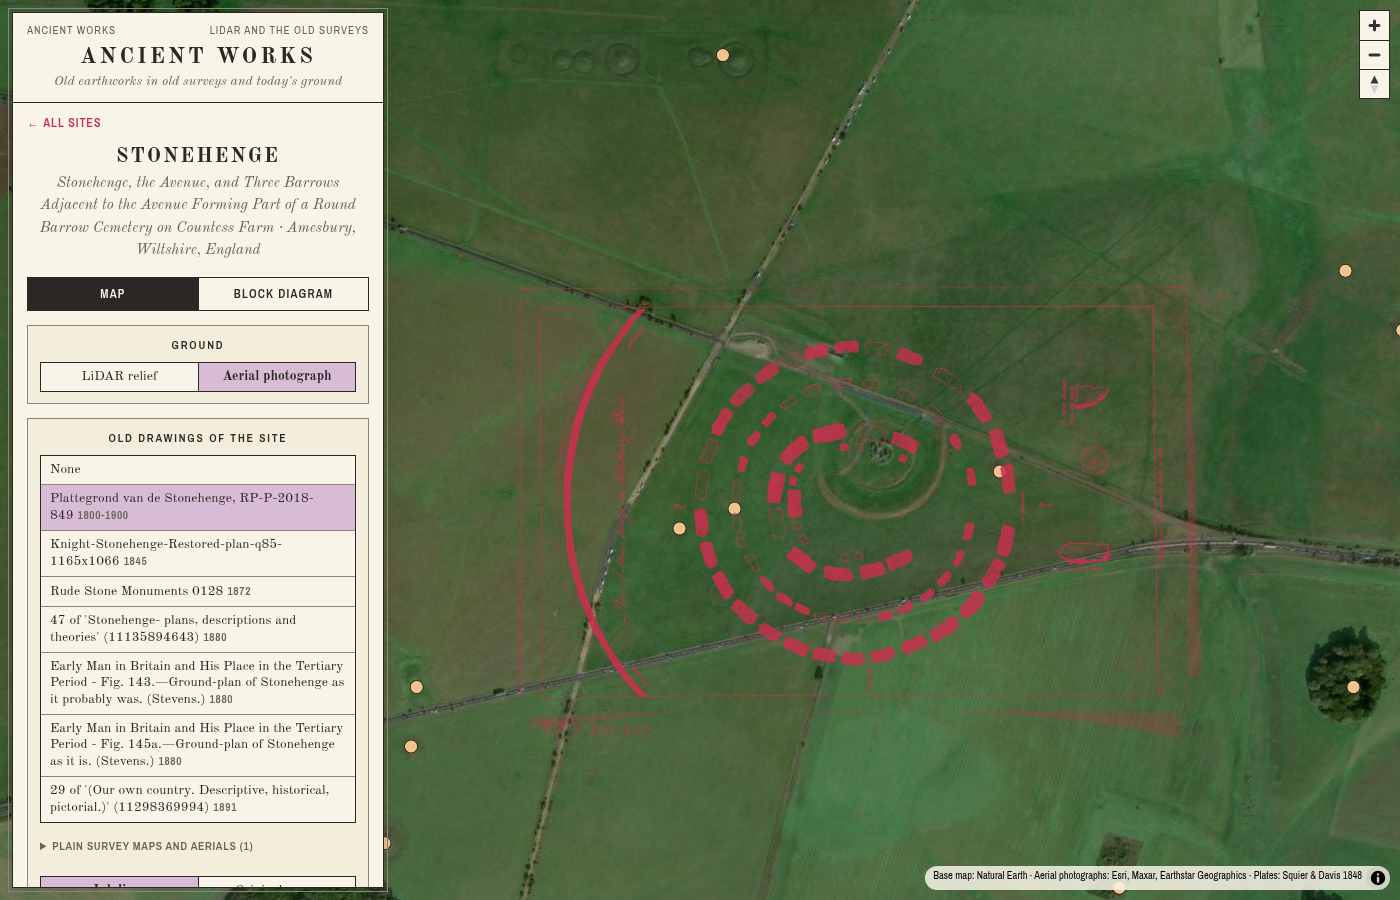
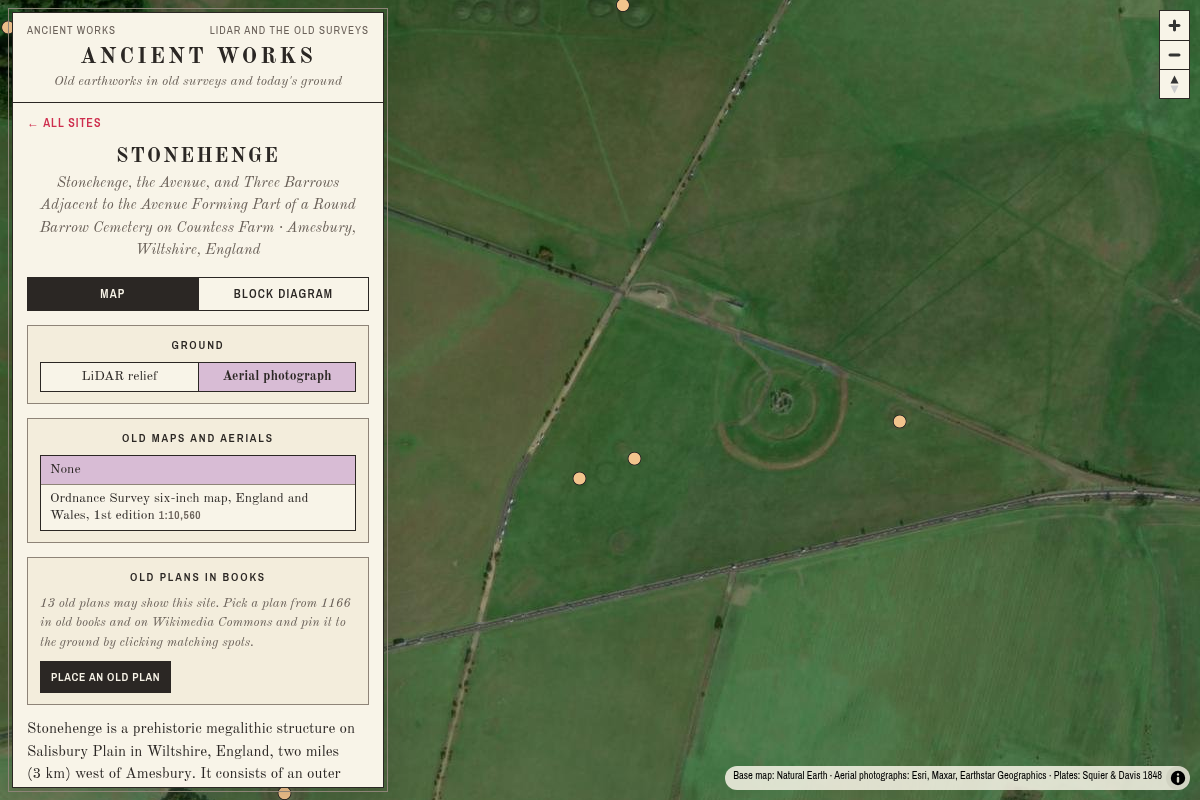
301: docs - correct the false Stonehenge record (the 7 fabricated fits were never synced: 0 drawings, 13 review candidates), replace stonehenge.png with the current visitor state, add the What-broke entry for the gate's blind spot, and fix the files-paragraph's byte-identical claim

diff --git a/tasks/301-site-argentoratum.md b/tasks/301-site-argentoratum.md
@@ -1,7 +1,6 @@
-Status: in-progress
 # 301: Argentoratum (Strasbourg), finished on the map - the second site through the line
 Depends on: 300
-Touches: web/data/sites.json, web/data/sites/argentoratum-q2361353/, web/data/sites/stonehenge-q39671/, web/data/review.json, data/review/, data/db/platefits/, docs/site_flow.md, docs/site_flow/, tools/site_done.py, pipeline/plan_fit.py, pipeline/build_site.py, tests/test_site_done.py
+Touches: web/data/sites.json, web/data/sites/argentoratum-q2361353/, web/data/sites/stonehenge-q39671/, web/data/review.json, data/review/, data/db/platefits/, docs/site_flow.md, docs/site_flow/, tools/site_done.py, pipeline/plan_fit.py, tests/test_site_done.py, tests/golden/
 
 ## Goal
 One site at a time, all the way to the map (owner, 2026-10-11). Stonehenge went through first and left the line
@@ -24,93 +23,91 @@ the result the way a visitor does before calling it done.
 - Do not start 207 or any other task: the lead gives the next site when this one is done.
 
 ## Hand-over
-(iteration 70, agent c - the line's fabrication check is WIRED and the line ran on Stonehenge;
-Stonehenge is now on the map as 0 drawings / 13 review candidates. Suite 60 green. The docs and
-test steps of the hand-over's order remain, then Argentoratum.)
+(iteration 71, agent c - Stonehenge's docs are TRUE again: site_flow.md corrected and stonehenge.png replaced
+with the current visitor state (0 drawings, uncoloured marker, 13 candidates in the review item). Suite 60
+green. Next: the golden-seeded rewrite of tests/test_site_done.py, then Argentoratum through the line.)
 
-**What was done and committed (iteration 70):**
-- tools/site_done.py: `_sync` runs `plan_fit.fabrication_pattern(doc["pairs"])` on every doc
-  BEFORE the is_done/build branch. On a hit: `_pattern_entry` upserts the candidate into the
-  site's item (plan/title/url/pairs/evidence/gate_score; why = "line check: <reason>; the gate's
-  X m measures internal consistency of the anchors, not their truth"), the doc file is deleted,
-  the line prints "sent to the review queue (line check: ...)" and never counts it synced; after
-  the loop `plan_fit.prune(root, sid)` drops any existing overlay. `_sync` returns (failed, sent).
-  `main` re-reads the item after the sync (upserts during sync are invisible to `_fit`'s snapshot)
-  so `_review`/`_summary`/`resolved` see the new candidates. Module docstring documents the check.
-- pipeline/plan_fit.py: `prune(root=None, site=None)` - the `site` param restricts the sweep to
-  one site's dep file (the CLI keeps the global sweep via site=None). Added because the line's
-  first run used the global prune and it dropped a stale orphan dep entry of alligator-effigy-mound
-  (see DECISIONS) - the line must not write other sites' files.
-- The line was run on the real checkout: `.venv/bin/python tools/site_done.py stonehenge-q39671`
-  (twice; second run idempotent). All 7 stonehenge auto docs hit the check and were deleted;
-  their 14 plan webps + dep entries pruned; drawings 7 -> 0; item 6 -> 13 candidates; review.json
-  republished (339 open of 340). The 6 original item candidates are byte-identical; the 7 new ones
-  are appended after them (lead unchanged, item file name unchanged).
+**What was done and committed (iteration 71):**
+- docs/site_flow/stonehenge.png replaced: served the LIVE checkout (server/serve.py --port 0, ephemeral
+  port) and shot with `NODE_PATH=/home/agent/tools/shot/node_modules node tools/shot.mjs <url> <out>
+  1000 1200 800 "<probe>"`, POSTWAIT=8000 (the probe awaits loadDeps, then the 4.5 s map flyTo must
+  finish). Probe: poll until S.ready && S.sites.length, then select('stonehenge-q39671'),
+  await loadDeps(S.byId[...]). Its [eval] reported drawings: 0, depFiles: ["map:six-inch-1st.webp"],
+  ground: "imagery", RV loaded with 339 open items. The photo shows exactly that: aerial ground,
+  panel group "Old maps and aerials" with only the 1842 six-inch OS map (the 1900 one-inch is hidden
+  by the 150-year rule), no drawings group, uncoloured map markers. ArcGIS World_Imagery
+  ERR_ABORTED lines during the flyTo are normal in-flight aborts; the photograph loads anyway.
+- docs/site_flow.md: (1) the Stonehenge paragraph rewritten - no batch run (13/13 covered), the line's
+  pre-sync check found all 7 docs to be the fabrication class, all 7 upserted to the item with the
+  reason and deleted, site ends 0 drawings, entry stays 0, item 6 -> 13 candidates, 339 open of 340,
+  a human's saved fit puts the first drawing on; (2) the png caption bullet is now true; (3) new
+  "What broke" entry: the gate passed the 7 fabricated fits by construction (gate.md s.7's registered
+  limit; residuals 0-44 m; one fit 2-3x too large and ~70 m off-centre) and the line's
+  plan_fit.fabrication_pattern (grid roundness + 2D lattice + 1D ladder on stored page-px pairs, pure)
+  now catches the class before sync - fires on all 110 batch docs (at calibration), none of the 20
+  hand docs; (4) "Files the line touches" no longer claims data/db/platefits is byte-identical (the
+  line deletes pattern docs after upserting the candidate); (5) step 2 (sync) describes the pre-sync
+  check before the build.
+- Suite: 60 passed, unchanged.
 
-**Verified state on disk (this commit):**
-- stonehenge-q39671: 0 docs in data/db/platefits (the 7 deleted docs survive in git history -
-  `git show <parent of this commit>:data/db/platefits/stonehenge-q39671.<plan>.json`, plans
-  c_022604d2be0becdc c_098c4cb138676939 c_20f9f11153a0b7f0 c_6933e3a931a0240a c_83b4d6df7a6d2383
-  c_897a5c1632e2fdd6 c_f8386b6404e4ee63); dep = 2 maps (six-inch-1st, os1inch); drawings 0;
-  item data/review/stonehenge-q39671.earthworkenglan01allcgoog_n0582_1.json = 13 candidates
-  (6 originals + 7 with "line check:" whys), resolved None; review.json stonehenge entry = 13.
-- alligator-effigy-mound-q4732645: its dep file (gitignored, local) lost one stale orphan entry
-  during the FIRST run's global prune (a plan overlay referencing a doc that no longer exists in
-  the store - pre-existing before this task; the only alligator doc is the batch's c_618a, which
-  prune kept). Left as-is: it was dead weight, the file is local and pipeline-rebuilt, and the
-  module's own next global prune (any page save/delete) would have dropped it anyway. Do not try
-  to restore it or file a task for it.
-- argentoratum-q2361353: untouched so far - 8 auto docs, item with 34 candidates, drawings 0,
-  dep = 2 maps + 1 aerial. All 8 docs hit the pattern check (verified this session).
+**State on disk (unchanged since the previous commit, re-verified):**
+- stonehenge-q39671: 0 docs in data/db/platefits (the 7 deleted ones live in git: git show
+  b84d147^:data/db/platefits/stonehenge-q39671.<plan>.json, plans c_022604d2be0becdc
+  c_098c4cb138676939 c_20f9f11153a0b7f0 c_6933e3a931a0240a c_83b4d6df7a6d2383
+  c_897a5c1632e2fdd6 c_f8386b6404e4ee63); dep = six-inch-1st.webp + os1inch.webp; drawings 0; item
+  data/review/stonehenge-q39671.earthworkenglan01allcgoog_n0582_1.json = 13 candidates (6 originals
+  byte-identical + 7 with whys starting "line check:"), resolved None; review.json stonehenge =
+  13, 339 open of 340.
+- argentoratum-q2361353: 8 auto docs (all 8 hit fabrication_pattern - verified in the calibration
+  session), item with 34 candidates, drawings 0, dep = 2 maps + 1 aerial.
 
-**Next step (ONE step, then commit): DOCS.** docs/site_flow.md: correct the now-false Stonehenge
-paragraph (it says the line "synced the 7 documents, took the entry from 0 to 7 drawings" and the
-png caption says "its circles and stones sit on the real sarsens" - both false: all 7 were the
-batch's fabricated pattern class; the site shows 0 drawings and all 13 candidates sit in its review
-item until a human fits at least one). Replace docs/site_flow/stonehenge.png (server/serve.py
-`--port 0` + tools/shot.mjs, probe `select('stonehenge-q39671')`): the state a visitor sees now -
-0 drawings, marker uncoloured, the review item reachable from the page - with the true one-line
-caption. Add the entry under "What broke on Stonehenge": the gate passed 7 fabricated pattern
-fits by construction (docs/gate.md s.7 blind spot); the line's fabrication check (plan_fit.
-fabrication_pattern, wired into tools/site_done.py:_sync) now catches this class before it reaches
-the map - pattern docs go to the review item with the reason and are deleted, never synced.
-Also update the "Files the line touches" paragraph if it claims platefits is byte-identical (the
-line now deletes pattern docs).
+**Next step (ONE step, then commit): TESTS - rewrite tests/test_site_done.py** (it currently passes
+vacuously: 0 docs in the repo -> nothing to check). Make it coverage of the check by seeding the
+pre-run state:
+1. New goldens (add `tests/golden/` to the Touches line first): (a) the 7 deleted stonehenge docs -
+   recover verbatim from git history (`git show b84d147^:data/db/platefits/stonehenge-q39671.<plan>.json`
+   for the 7 plans above) into tests/golden/ (e.g. stonehenge_linecheck_docs/, one file per doc,
+   keeping the original file names); (b) the PRE-run item = the current 13-candidate item minus its
+   7 candidates whose why starts with "line check:" (deterministic: the upsert only appended) -
+   derive it in the test (or commit it as a golden too); (c) the EXPECTED post-run item = the repo's
+   current 13-candidate item itself (the assertion target).
+2. Test body (keep the existing socket-dead GUARD harness and temp-tree copy): seed the 7 docs into
+   the tree's data/db/platefits and the pre-run item into the tree's data/review; the site dir and
+   sites.json stay as in the repo (2 maps, 0 drawings); run the copied line
+   (`site_done.py --root <tree>`); assert: exit 0; the fit line "13 candidate picture(s): 7 fitted
+   (doc), 6 in the review item -> no batch run needed"; 7 "sent to the review queue (line check:
+   ...)" lines; NO plan webps created in the site dir; the site's depictions.json byte-identical to
+   the repo's; sites.json byte-identical (drawings 0); the upserted item file byte-identical to the
+   repo's current 13-candidate item; the 7 seeded docs GONE from the tree's platefits; review.json's
+   items identical to the repo's; no other site's file touched anywhere in the tree (this pins the
+   scoped-prune fix); second run idempotent (0 docs -> no batch run; 13 summary lines; only
+   review.json's "at" changes). Keep the existing loud-fail precondition style if the repo drifts
+   (e.g. a doc reappears, the item candidate count changes).
 
 **Then (order):**
-1. TESTS - rewrite tests/test_site_done.py for the new state: it must SEED the 7 pattern docs
-   from a new golden (recover them from git history, e.g. tests/golden/ - add the golden path to
-   the task's Touches when you create it) plus the PRE-run item (derive it by dropping the 7
-   "line check:" candidates from the current 13-candidate item - deterministic, since the upsert
-   only appended) plus the pre-sync site dir (2 maps, drawings 0), run the copied line (the
-   socket-dead GUARD harness stays), and assert: exit 0; fit line "13 candidate picture(s): 7
-   fitted (doc), 6 in the review item -> no batch run needed"; 7 "sync ... sent to the review
-   queue (line check: ...)" lines; NO plan webps; dep byte-identical to the repo's (2 maps);
-   sites.json byte-identical (drawings 0); the upserted item byte-identical to the repo's 13-
-   candidate item; the 7 golden docs GONE from the tree's platefits; review.json items == repo's;
-   no other site's file touched (this is what pins the scoped-prune fix); second run idempotent
-   (0 docs -> no batch run; 13 summary lines; only review.json's "at" changes). Keep the existing
-   precondition style (fail loudly if the repo drifts). The old test currently passes vacuously
-   (0 docs in the repo) - that is not coverage; the rewrite makes it coverage again.
-2. ARGENTORATUM - `.venv/bin/python tools/site_done.py argentoratum-q2361353`: all 8 auto docs
-   hit the check -> upserted to the item (34 -> 42 candidates, resolved stays None, originals
-   untouched), 0 docs left, 0 drawings (0 -> 0), exit 0; the "browser-check each synced drawing"
-   box is satisfied vacuously (0 synced) - document that. Screenshot the site page to
-   docs/site_flow/argentoratum.png (visitor's state: 0 drawings, item in the review queue) with a
-   one-line caption (box 2). Tick the boxes as they are verified.
+1. ARGENTORATUM: `.venv/bin/python tools/site_done.py argentoratum-q2361353` (live checkout): expect
+   all 8 auto docs to hit the check -> upserted into the item (34 -> 42 candidates, resolved stays
+   None, the 34 originals byte-identical and in order), 0 docs left, drawings 0 -> 0, exit 0. The
+   "browser-check each synced drawing" part of box 2 is satisfied vacuously (0 drawings synced) -
+   document that when ticking. Screenshot the site page (same shot recipe as stonehenge, probe
+   select('argentoratum-q2361353')) to docs/site_flow/argentoratum.png with a one-line caption on
+   what it shows (box 2).
+2. Tick the boxes only as they are verified; box 3's "one line under What broke" is already written
+   (the fabrication-check entry) - if nothing else breaks on Argentoratum, box 3 rests on the test
+   step + the full suite.
 
-**Re-read:**
+**Re-read (carried over, still fresh-eyes due):**
 - Re-read: tools/site_done.py:_fit - on a re-run after a pattern doc was deleted, the picture is
   covered via item_cands (not docs), so no batch run re-fits it with a model (verified on the
   second stonehenge run: "0 fitted (doc), 13 in the review item").
 - Re-read: fit/review.py:upsert_item - merges by plan; a same-plan candidate is REPLACED whole, so
-  a later re-upsert (e.g. a batch run that re-fits the picture and the model now answers badly or
-  well) overwrites the "line check:" entry - intended: the newest word wins until a human saves.
+  a later re-upsert (e.g. a batch run that re-fits the picture) overwrites the "line check:" entry -
+  intended: the newest word wins until a human saves.
 
-**Environment:** .venv/bin/python for anything importing pipeline/ or fit/ (numpy/PIL; the driver's
-2026-10-10 venv note is stale, the venv builds). No fixed network ports in tests; nothing writes
-outside project + temp dir. Do not run git merge/rebase/reset/stash/branch switches. Agent a works
-on 206 in its own checkout (its 206 files: fit/src_mackenzie.py etc. - not yours); 207/207a/b/c
-wait on the human. Do not start other tasks; the lead gives the next site when this one is done.
-
-
+**Environment:** .venv/bin/python for anything importing pipeline/ or fit/ (the venv builds fine;
+the driver's 2026-10-10 note is stale). Screenshot recipe: server/serve.py --port 0 (ephemeral, no
+fixed ports) + node tools/shot.mjs with NODE_PATH=/home/agent/tools/shot/node_modules and
+POSTWAIT>=8000 (map flyTo is 4.5 s). Nothing writes outside project + temp dir. Do not run git
+merge/rebase/reset/stash/branch switches. Agent a works on 206 in its own checkout (its files:
+fit/src_mackenzie.py etc. - not yours). Do not start other tasks; the lead gives the next site when
+this one is done.

diff --git a/docs/site_flow.md b/docs/site_flow.md
@@ -23,7 +23,12 @@ Exit codes: 2 = the site is not built, 1 = a document failed to sync, 0 = done.
    A brand-new site needs a model here: `--working` (the local vision model on the AI box) or
    `--model-json` (recorded answers, a dry run); with neither, unfitted pictures land in the
    review item as "no model answer".
-2. **sync** — `pipeline/plan_fit.py build` for every one of the site's fit documents: the big
+2. **sync** — before any of them, the line's fabrication check: `plan_fit.fabrication_pattern`
+   on every document's stored page-px pairs (the batch's gate passes the model's pattern class
+   by construction — see What broke on Stonehenge). A document that hits is never synced: its
+   candidate is upserted into the site's review item with the reason, the document is deleted
+   (a later batch run re-fits the picture from scratch), and the line prints where it went. Then
+   `pipeline/plan_fit.py build` for every remaining document: the big
    picture (a Commons file is downloaded once and cached in `data/raw/commons/big/`, paced like
    `pipeline/commons.py`), the similarity or homography fit, `plan_<id>.webp` + `plan_<id>_ink.webp`
    in `web/data/sites/<site>/`, and the entry in its `depictions.json` (kind "plan"/"view",
@@ -40,13 +45,20 @@ The output names every picture of the site and where it ended up: *synced to the
 *sent to the review queue (why)*, or *skipped: overlay already current*.
 
 Stonehenge (the first site through the line, 2026-10-11): all 13 candidates were already covered
-by the batch (7 automatic documents, 6 in one review item), so the line synced the 7 documents,
-took the entry from 0 to 7 drawings, and published the item (the page then has 339 open of
-340 items). What the page shows:
+by the batch (7 automatic documents, 6 in one review item), so no batch run was needed — but the
+line re-checked all 7 documents before syncing and found every one of them to be the model's
+documented fabrication class (the batch's gate passed that class by construction, see below), so
+not one was synced: the line sent all 7 into the site's review item with the reason and deleted
+the documents. The site ends with 0 drawings, its entry stays at 0, and its one review item grew
+from 6 to 13 candidates (the page then has 339 open of 340 items). A human's saved fit is what
+puts the first drawing on this site. What the page shows now:
 
-- `docs/site_flow/stonehenge.png` — the site open on the aerial photograph with the 1800
-  Rijksmuseum plan in red ink over the ground (its circles and stones sit on the real sarsens),
-  the site panel listing all 7 drawings, and its map square coloured (7 drawings).
+- `docs/site_flow/stonehenge.png` — Stonehenge open on the aerial photograph with no drawing on
+  it at all: the panel's group is "Old maps and aerials" and offers only the 1842 six-inch OS
+  survey (the 1900 one-inch map is hidden by the 150-year rule), the map's marker is uncoloured,
+  and all 13 of the site's candidate pictures wait in its review item (one of the 339 open).
+  The old 7 drawings that the first run put here are the fabricated pattern fits described
+  below; they sit in the review item until a human places a real one.
 
 ## What broke on Stonehenge, and the fix (so the next site does not meet it again)
 
@@ -70,12 +82,29 @@ took the entry from 0 to 7 drawings, and published the item (the page then has 3
   (only plans/drawings and 150+ year-old surveys show). Stonehenge's 1900 OS map therefore never
   appears; its 1842 six-inch map does. A site with only recent maps will look aerial-only in the
   panel even though the files are built.
+- **The gate passed 7 fabricated fits by construction.** Every one of Stonehenge's automatic
+  documents was the model's documented fabrication class (the `batch_us.llm_model` docstring:
+  "internally perfect regular patterns"): a regular ladder of round page-px coordinates mapped
+  to a regular ladder of ground points, implied scale = the site box's width over the page's
+  pixels. The batch never asks the model for a placement — it solves the similarity from the
+  model's own pairs and the gate scores that solution against the same points — so the
+  residuals (0–44 m) and all three pre-gate counterchecks passed by construction: gate.md
+  section 7's registered limit verbatim ("a consistent global error passes"). None of the 7
+  sat on the real sarsens (one was 2–3× too large and ~70 m off-centre). The line is the last
+  gate before the map, so it catches the class itself: `plan_fit.fabrication_pattern` (grid
+  roundness, a 2D lattice clause, a 1D ladder clause — on the document's stored page-px
+  pairs, pure, no download) runs on every document in `tools/site_done.py` before any sync; a
+  hit goes to the site's review item with the reason and its document is deleted, never to the
+  map. Verified to fire on every batch document in the repo (110 of 110 at calibration, before
+  the line deleted its 7) and on none of the 20 hand-fit documents.
 
 ## Files the line touches (one site only)
 
 `web/data/sites/<site>/**` (the overlays, `depictions.json`), the site's entry in
 `web/data/sites.json`, `web/data/review.json` (always the whole queue), the site's own item in
-`data/review/` (only to record a resolution), new big-picture caches in
-`data/raw/commons/big/`. It never rewrites a fit document (`data/db/platefits/` is byte-
-identical across runs), never another site's files, and never the 20 hand-fit documents
+`data/review/` (a resolution, or a fabrication-pattern candidate before its document is
+deleted), new big-picture caches in `data/raw/commons/big/`. It never rewrites a fit document —
+it only deletes a document whose page-px pairs match the fabrication pattern (the candidate
+goes to the review item first), so the rest of `data/db/platefits/` is byte-identical across
+runs — never another site's files, and never the 20 hand-fit documents
 (`tests/golden/hand_fit_docs.sha256` stays green).

diff --git a/DECISIONS.md b/DECISIONS.md
@@ -69,3 +69,7 @@ Suite: 60 passed after the change (the function is unused until the next step wi
 ## 2026-10-11 301 DECISION: the fabrication check is wired into the line (tools/site_done.py:_sync, run BEFORE any build/download); the line took Stonehenge to the map as 0 drawings / 13 review candidates; two line defects found and fixed in the line (scoped prune, stale item re-read)
 Where: tools/site_done.py, pipeline/plan_fit.py (prune), data/db/platefits/stonehenge-q39671.* (7 deleted), data/review/stonehenge-*, web/data/{sites.json,review.json}
 Rationale: _sync runs plan_fit.fabrication_pattern(doc pairs) on every doc before the is_done/build branch; on a hit it (1) upserts the candidate into the site's item via a new _pattern_entry (plan/title/url/pairs/evidence/gate_score, why = "line check: <reason>; the gate's X m measures internal consistency of the anchors, not their truth"), (2) deletes the doc file (a later batch run re-fits the picture; plan_fit.prune keeps no overlay of it), (3) prints "sent to the review queue (line check: ...)" and never counts it synced; after the loop the line calls plan_fit.prune(root, sid). _sync now returns (failed, sent), and main re-reads the item AFTER the sync (the upsert is invisible to _fit's snapshot) so _review/_summary/resolved all see the new candidates. The real run (no model, no network): 13 rows all covered -> no batch run; all 7 stonehenge docs hit the check; the 7 already-built plan webps + dep entries pruned; drawings 7 -> 0; item 6 -> 13 (the 6 originals byte-identical, order kept, lead unchanged); review.json republished (339 open of 340); second run idempotent (only review.json's "at" changes). Two defects the run exposed, both fixed in the line per the task's "fix in the line" box: (1) prune was a GLOBAL sweep and dropped a stale orphan dep entry of alligator-effigy-mound (a plan overlay referencing a doc that no longer exists in the store - pre-existing since before this task; the dep dir is gitignored/local, the images pipeline-rebuild, and the module's own next global prune would have dropped it anyway) - so plan_fit.prune gained a `site` parameter (site=None keeps the CLI's global sweep) and the line prunes only its own site; (2) _review printed the stale pre-sync item (6 candidates instead of 13) because it used _fit's snapshot - main re-reads after the sync. Suite 60 passed after all of it (hand-fit golden green). test_site_done.py now runs VACUOUSLY against the new repo state (0 docs) - the golden-seeded rewrite that makes it re-verify the check is the next step, after the docs step. The 7 deleted docs live on in git history (this commit's parent): git show <parent>:data/db/platefits/stonehenge-q39671.<plan>.json.
+
+## 2026-10-11 301 DECISION: Stonehenge's record corrected - docs/site_flow.md no longer claims the 7 fabricated fits were synced, and docs/site_flow/stonehenge.png is the CURRENT visitor state (0 drawings, uncoloured marker, 13 candidates in the review item)
+Where: docs/site_flow.md, docs/site_flow/stonehenge.png
+Rationale: the old paragraph said the line "synced the 7 documents, took the entry from 0 to 7 drawings" and the old png's caption claimed the 1800 Rijksmuseum plan "sits on the real sarsens" - both false since the iteration-70 line run (all 7 were the model's fabricated pattern class; the site is 0 drawings with 13 open candidates). New png: the LIVE checkout served with server/serve.py --port 0 (ephemeral port), shot with tools/shot.mjs (NODE_PATH=/home/agent/tools/shot/node_modules; probe polls S.ready && S.sites.length, select('stonehenge-q39671'), awaits loadDeps; POSTWAIT=8000 so the 4.5 s flyTo settles). Its [eval] confirmed drawings: 0, depFiles: ["map:six-inch-1st.webp"] (the 1900 one-inch map is hidden by the 150-year rule), RV loaded with 339 open items; the frame shows the aerial ground, the panel's "Old maps and aerials" group, no drawings, uncoloured markers. Doc edits: the Stonehenge paragraph rewritten (no batch run needed, all 7 hit the pre-sync check, all sent to the item with the reason and deleted, 0 drawings, item 6 -> 13, 339 open of 340, a human's saved fit puts the first drawing on); the png caption true; a new "What broke" entry recording that the gate passed the class by construction (gate.md s.7; residuals 0-44 m; one fit 2-3x too large and ~70 m off-centre) and that the line's fabrication_pattern (grid roundness + 2D lattice + 1D ladder on stored page-px pairs) now catches it before sync (fires on all 110 batch docs at calibration, none of the 20 hand docs); "Files the line touches" no longer claims data/db/platefits is byte-identical (the line deletes pattern docs after upserting the candidate); step 2 (sync) now describes the pre-sync check. ArcGIS World_Imagery ERR_ABORTED lines during the flyTo are normal in-flight aborts - the photograph still renders. Suite: 60 passed, unchanged.
